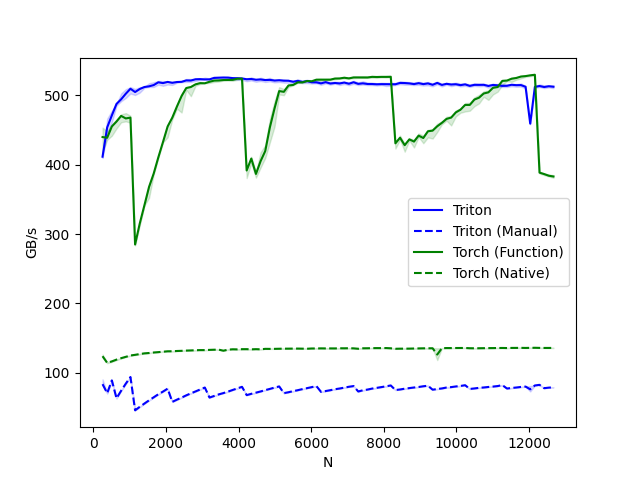
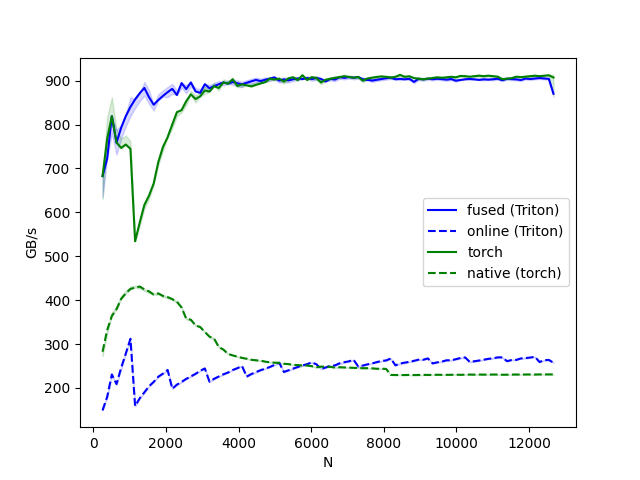
add memory usage analysis

diff --git a/softmax.py b/softmax.py
@@ -13,7 +13,7 @@ def naive_softmax(x: torch.Tensor)-> torch.Tensor:
     return sm_out
 
 @triton.jit
-def _softmax_kernel_optimized(
+def _softmax_kernel_online(
     x_ptr, sm_out, rows, cols, B0: tl.constexpr, B1: tl.constexpr
 ):
     # Program ID and row offsets
@@ -63,7 +63,7 @@ def _softmax_kernel_optimized(
         tl.store(sm_out + off_ij, z, mask)
 
 
-def softmax_optimized(x: torch.Tensor) -> torch.Tensor:
+def online_softmax(x: torch.Tensor) -> torch.Tensor:
     rows, cols = x.shape
     assert x.dim() == 2, f"only accepts 2D tensors for now"
 
@@ -88,11 +88,11 @@ def softmax_optimized(x: torch.Tensor) -> torch.Tensor:
     grid = (triton.cdiv(rows, B0),)
     
     sm_out = torch.empty_like(x)
-    _softmax_kernel_optimized[grid](x, sm_out, rows, cols, B0=B0, B1=B1, num_warps=num_warps)
+    _softmax_kernel_online[grid](x, sm_out, rows, cols, B0=B0, B1=B1, num_warps=num_warps)
     return sm_out
 
 @triton.jit
-def _softmax_fwd_kernel(
+def _softmax_kernel_fused(
     output_ptr,
     stride_output_row,
     input_ptr,
@@ -125,7 +125,7 @@ def _softmax_fwd_kernel(
 
 
 
-def softmax(x:torch.Tensor)->torch.Tensor:
+def fused_softmax(x:torch.Tensor)->torch.Tensor:
     """ Triton impl of Softmax, fwd pass only """
     rows, cols = x.shape
     assert x.dim() ==2, f"only accepts 2D tensors for now"
@@ -141,7 +141,7 @@ def softmax(x:torch.Tensor)->torch.Tensor:
     # allocate our output buffer
     sm_out = torch.empty_like(x)
 
-    _softmax_fwd_kernel[grid](
+    _softmax_kernel_fused[grid](
         sm_out,
         sm_out.stride(0),
         x,
@@ -162,16 +162,16 @@ def softmax(x:torch.Tensor)->torch.Tensor:
         ],  # different possible values for `x_name`
         line_arg='provider',  # argument name whose value corresponds to a different line in the plot
         line_vals=[
-            'triton',
-            'triton-manual',
-            'torch-function',
-            'torch-native',
+            'fused',
+            'online',
+            'torch',
+            'native',
         ],  # possible values for `line_arg``
         line_names=[
-            "Triton",
-            "Triton (Manual)",
-            "Torch (Function)",
-            "Torch (Native)",
+            "fused (Triton)",
+            "online (Triton)",
+            "torch",
+            "native (torch)",
         ],  # label name for the lines
         styles=[('blue', '-'), ('blue', '--'), ('green', '-'), ('green', '--')],  # line styles
         ylabel="GB/s",  # label name for the y-axis
@@ -180,22 +180,42 @@ def softmax(x:torch.Tensor)->torch.Tensor:
     )
 )
 
+
 def benchmark(M, N, provider):
     x = torch.randn(M, N, device='cuda', dtype=torch.float32)
     quantiles = [0.5, 0.2, 0.8]
-    if provider == 'triton':
-        ms, min_ms, max_ms = triton.testing.do_bench(lambda: softmax(x), quantiles=quantiles)
-    if provider == 'triton-manual':
-        ms, min_ms, max_ms = triton.testing.do_bench(lambda: softmax_optimized(x), quantiles=quantiles)
-    if provider == 'torch-native':
-        ms, min_ms, max_ms = triton.testing.do_bench(lambda: naive_softmax(x), quantiles=quantiles)
-    if provider == 'torch-function':
+    if provider == 'fused':
+        ms, min_ms, max_ms = triton.testing.do_bench(lambda: fused_softmax(x), quantiles=quantiles)
+    if provider == 'online':
+        ms, min_ms, max_ms = triton.testing.do_bench(lambda: online_softmax(x), quantiles=quantiles)
+    if provider == 'torch':
         ms, min_ms, max_ms = triton.testing.do_bench(lambda: torch.softmax(x, axis=-1), quantiles=quantiles)
+    if provider == 'native':
+        ms, min_ms, max_ms = triton.testing.do_bench(lambda: naive_softmax(x), quantiles=quantiles)
+
 
     gbps = lambda ms: 2 * x.nelement() * x.element_size() * 1e-9 / (ms * 1e-3)
     return gbps(ms), gbps(max_ms), gbps(min_ms)
 
+def memory_scan():
+    M, N = 4096, 1024
+    x = torch.randn(M, N, device='cuda', dtype=torch.float32)
 
+    for name, func in [
+        ("PyTorch softmax", lambda x: torch.softmax(x, dim=-1)),
+        ("Online softmax", online_softmax),
+        ("Fused softmax", fused_softmax),
+        ("Naive softmax", naive_softmax)
+    ]:
+        torch.cuda.reset_peak_memory_stats()
+        torch.cuda.empty_cache()
+
+        result = func(x)
+        torch.cuda.synchronize()
+        
+        total_mem = torch.cuda.memory_allocated() / (1024 ** 2)
+        peak_mem = torch.cuda.max_memory_allocated() / (1024 ** 2)
+        print(f"{name}: Current memory: {total_mem:.2f} MB, Peak memory: {peak_mem:.2f} MB")
 
 if __name__ == "__main__":
     # ======== Check Implementation Correctness
@@ -203,10 +223,14 @@ if __name__ == "__main__":
     x = torch.randn(M, N, device='cuda', dtype=torch.float32)
 
     torch_result = torch.softmax(x, dim=-1)
-    optimized_result = softmax_optimized(x)
+    optimized_result = online_softmax(x)
 
     op_correct = torch.allclose(torch_result, optimized_result, rtol=1e-3, atol=1e-3)
     print(f"Optimized Softmax result: {'✅' if op_correct else '❌'}")
 
     if op_correct:
+        print("Running performance benchmark...")
         benchmark.run(show_plots=True, print_data=True, save_path=Path.cwd())
+        
+        print("Running memory usage benchmark...")
+        benchmark_memory.run(show_plots=True, print_data=True, save_path=Path.cwd())
